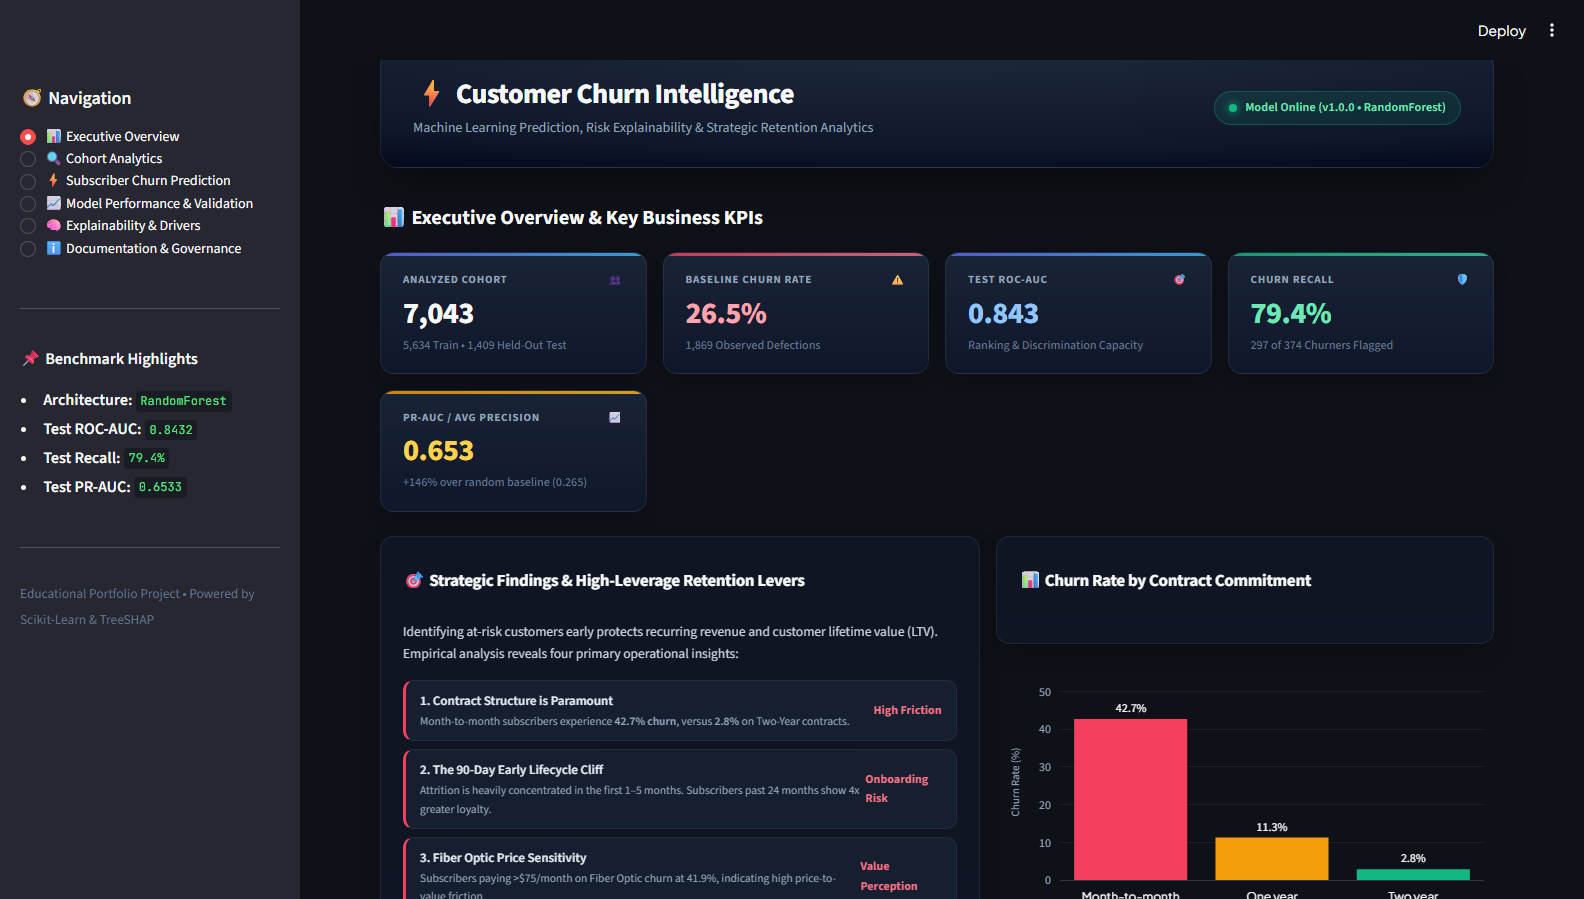
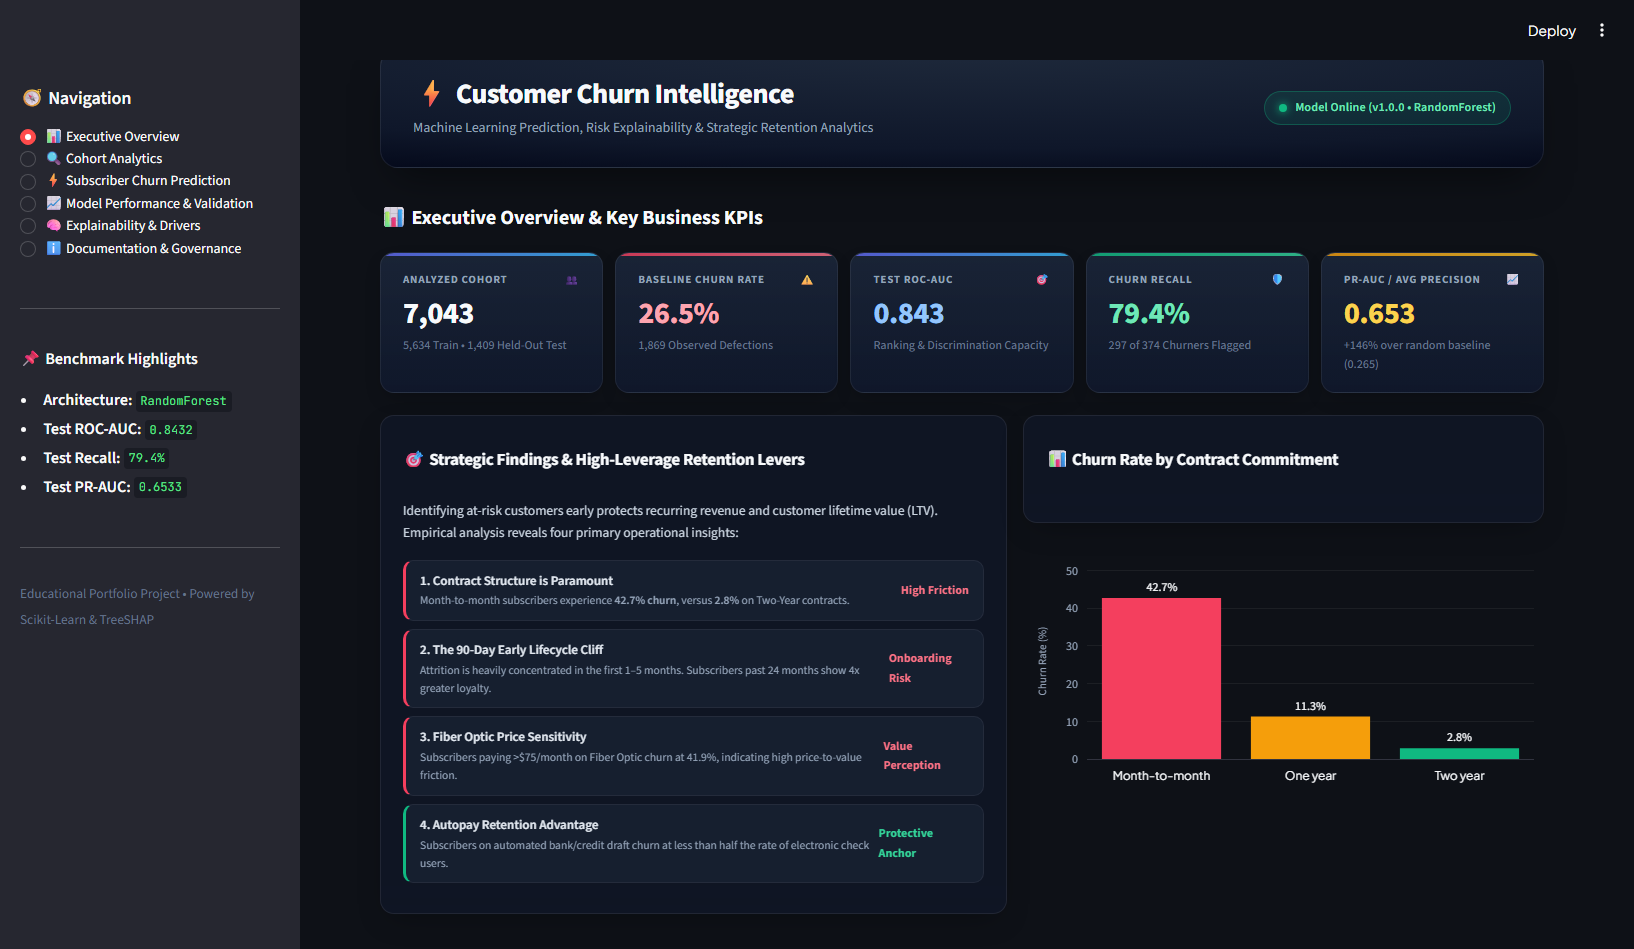
Add authentic live product screenshots and real-time reactive prediction UI

diff --git a/app.py b/app.py
@@ -105,9 +105,19 @@ PREMIUM_CSS = """
     /* Metric KPI Cards */
     .kpi-grid {
         display: grid;
-        grid-template-columns: repeat(auto-fit, minmax(220px, 1fr));
-        gap: 16px;
-        margin-bottom: 24px;
+        grid-template-columns: repeat(5, 1fr);
+        gap: 12px;
+        margin-bottom: 22px;
+    }
+    @media (max-width: 1200px) {
+        .kpi-grid {
+            grid-template-columns: repeat(3, 1fr);
+        }
+    }
+    @media (max-width: 768px) {
+        .kpi-grid {
+            grid-template-columns: 1fr;
+        }
     }
     .kpi-card {
         background: #0F172A;
@@ -660,7 +670,8 @@ elif menu_selection == "⚡ Subscriber Churn Prediction":
             "MonthlyCharges": 55.40, "TotalCharges": 775.60
         })
 
-    with st.form("churn_prediction_form"):
+    # Interactive Input Cards (Real-Time Reactive Scoring)
+    with st.container():
         col1, col2, col3 = st.columns(3)
 
         with col1:
@@ -703,9 +714,8 @@ elif menu_selection == "⚡ Subscriber Churn Prediction":
             help="Probabilities at or above this threshold trigger a positive Churn prediction."
         )
 
-        submitted = st.form_submit_button("⚡ Predict Churn Probability", use_container_width=True)
-
-    if submitted:
+    # Always compute prediction on active input state for real-time live feedback
+    if True:
         input_data = {
             "gender": gender, "SeniorCitizen": senior, "Partner": partner, "Dependents": dependents,
             "tenure": tenure, "PhoneService": phone_service, "MultipleLines": multiple_lines,

diff --git a/README.md b/README.md
@@ -4,6 +4,8 @@ An end-to-end Machine Learning system that predicts customer subscription churn,
 
 Built using the authentic **IBM Telco Customer Churn** dataset from Kaggle.
 
+![Customer Churn Intelligence Live Dashboard](reports/figures/dashboard_demo.png)
+
 ---
 
 ## 📋 Table of Contents
